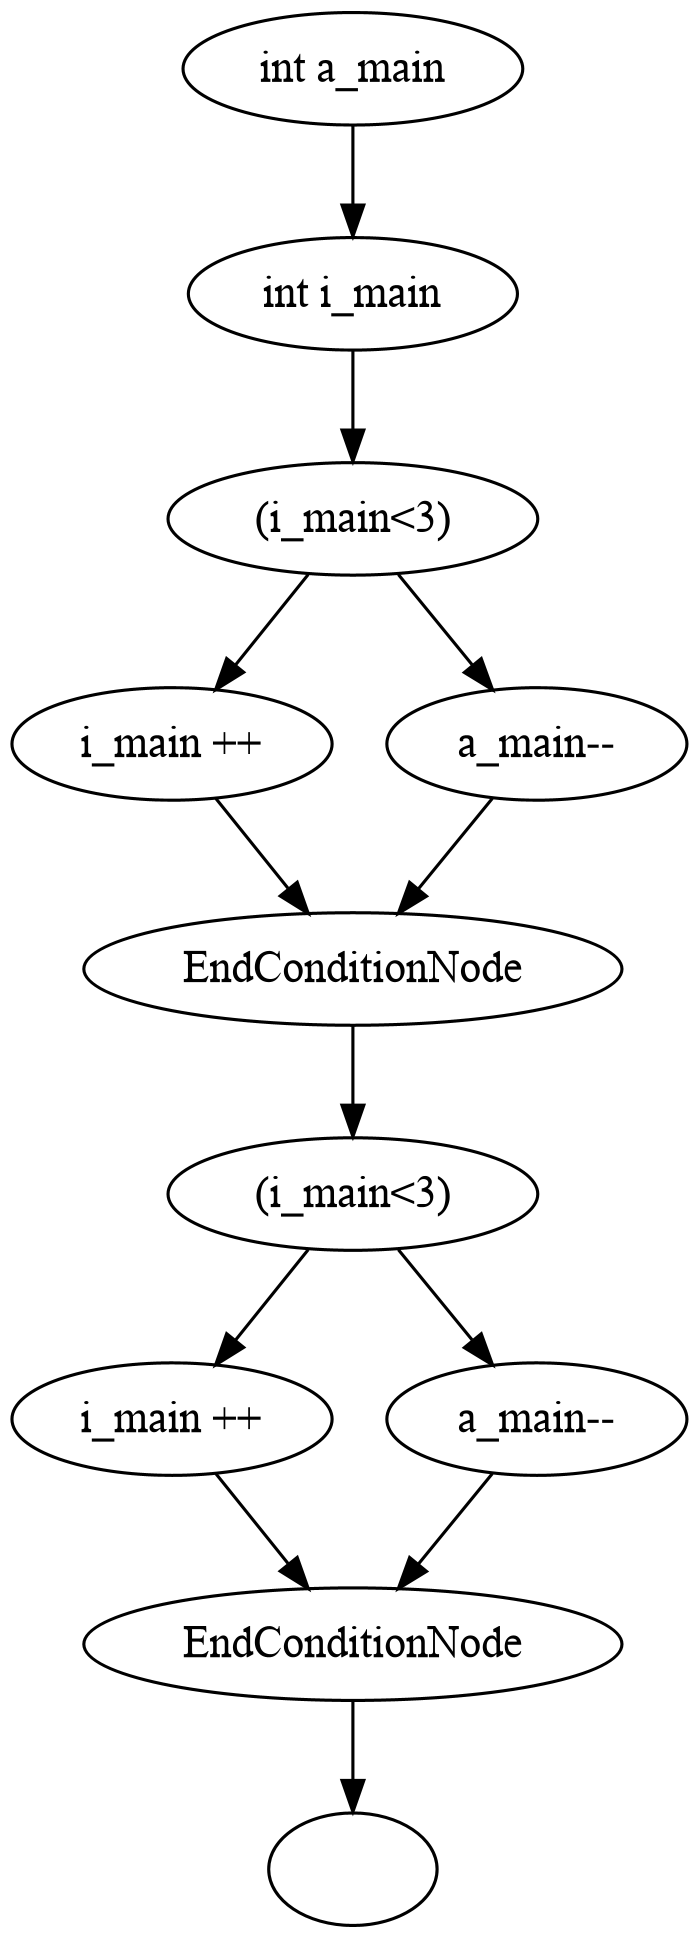
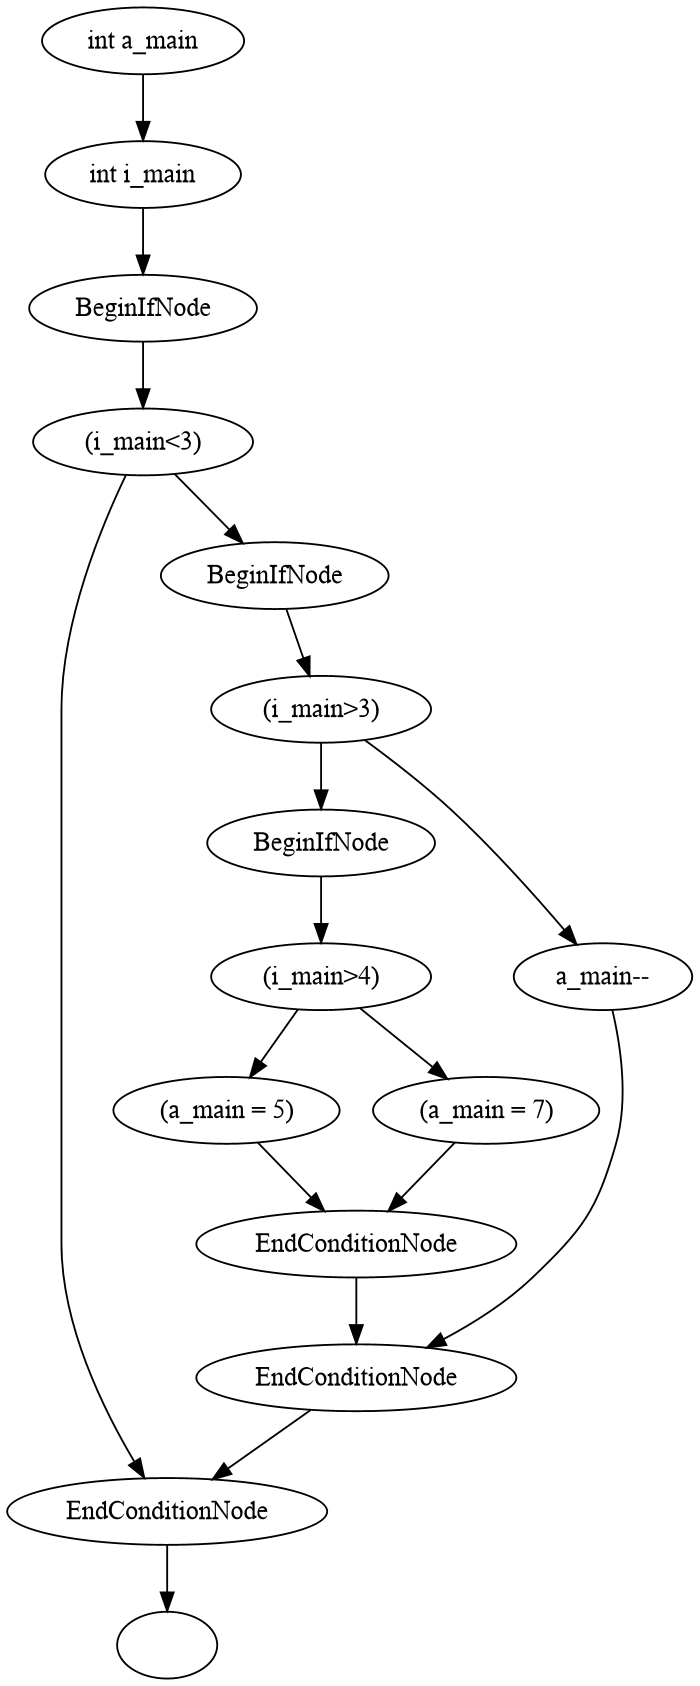
refactor code, use API of DecisionNode

diff --git a/src/main/java/com/vtse/graph/GraphGenerator.java b/src/main/java/com/vtse/graph/GraphGenerator.java
@@ -37,15 +37,25 @@ public class GraphGenerator {
         String label = "";
         if(node instanceof EndConditionNode){
             label = "EndConditionNode";
+        } else if (node instanceof BeginIfNode){
+            label = "BeginIfNode";
         } else {
             label = node.toString();
         }
         this.write("\"" + node.toString() + node.hashCode() + "\"" + " [ label=\"" + label + "\"]");
+        this.write(";\n");
     }
     public void writeDirected(String a, String b) throws IOException {
         this.write("\"" + a + "\"" + " -> " + "\"" + b + "\"" );
+        this.write(";\n");
     }
     public void writeTwoNode(CFGNode a, CFGNode b) throws IOException{
+        if(a instanceof EmptyNode){
+            return;
+        }
+        while(b instanceof EmptyNode){
+            b = b.getNext();
+        }
         this.writeDirected(a.toString() + a.hashCode(), b.toString() + b.hashCode());
         this.writeLabel(a);
         this.writeLabel(b);
@@ -61,45 +71,38 @@ public class GraphGenerator {
         if(this.debug){
             System.out.println("\"" + start.toString() + "\"" + " -> " + "\"" + nextNode.toString() + "\"");
         }
-        this.write(";\n");
         return nextNode;
     }
 
 
-    public CFGNode printIfNode(CFGNode beginIfNode, CFGNode end) throws IOException {
+    public CFGNode printIfNode(CFGNode beginIfNode) throws IOException {
         CFGNode decisionNode = ((BeginIfNode)beginIfNode).getDecisionNode();
-        this.countIf++;
+        this.writeTwoNode(beginIfNode, decisionNode);
 
         CFGNode thenNode = ((DecisionNode)decisionNode).getThenNode();
         CFGNode elseNode = ((DecisionNode)decisionNode).getElseNode();
-        Boolean elseNodeEmpty = false;
-        if(elseNode instanceof EmptyNode){
-            elseNodeEmpty = true;
-        }
-        thenNode = this.fixNode(thenNode);
-        elseNode = this.fixNode(elseNode);
+        CFGNode endConditionNode = ((DecisionNode)decisionNode).getEndNode();
+
         if(thenNode != null){
             this.writeTwoNode(decisionNode, thenNode);
-           this.write(";\n");
             if(this.debug){
                 System.out.println("\"" + decisionNode.toString() + "\"" + "->" + "\"" + thenNode.toString() + "\"");
             }
         }
-        if( !elseNodeEmpty && elseNode != null){
+        if( elseNode != null){
             this.writeTwoNode(decisionNode, elseNode);
-           this.write(";\n");
             if(this.debug){
                 System.out.println("\"" + decisionNode.toString() + "\"" + "->" + "\"" + elseNode.toString() + "\"");
             }
         }
 
-        int endConditionNodeIndex = this.countIf;
-        CFGNode thenNodeEnd = this.print(thenNode, end);
-        CFGNode elseNodeEnd = this.print(elseNode, end);
-        EndConditionNode endConditionNode =(EndConditionNode)thenNodeEnd.getNext();
-        endConditionNode.setStatement("EndConditionNode_" + endConditionNodeIndex);
-        this.printEndConditionNode(decisionNode, thenNodeEnd, elseNodeEnd, endConditionNode, elseNodeEmpty);
-        return this.print(endConditionNode, end);
+        this.print(thenNode, endConditionNode);
+        this.print(elseNode, endConditionNode);
+        CFGNode thenNodeEnd = ((DecisionNode)decisionNode).getEndOfThen();
+        CFGNode elseNodeEnd = ((DecisionNode)decisionNode).getEndOfElse();
+        this.writeTwoNode(thenNodeEnd, endConditionNode);
+        this.writeTwoNode(elseNodeEnd, endConditionNode);
+        return endConditionNode;
     }
 
     public CFGNode printForNode(CFGNode start) throws IOException{
@@ -133,14 +136,11 @@ public class GraphGenerator {
     public void printEndConditionNode(CFGNode start, CFGNode thenNodeEnd, CFGNode elseNodeEnd, EndConditionNode endConditionNode, Boolean elseNodeEmpty) throws IOException{
         if(thenNodeEnd != null){
             this.writeTwoNode(thenNodeEnd, endConditionNode);
-            this.write(";\n");
         }
         if(elseNodeEmpty){
             this.writeTwoNode(start, endConditionNode);
-            this.write(";\n");
         } else if(elseNodeEnd != null){
             this.writeTwoNode(elseNodeEnd, endConditionNode);
-            this.write(";\n");
         }
     }
     public CFGNode fixNode(CFGNode node){
@@ -161,33 +161,18 @@ public class GraphGenerator {
         if(nextNode == end){
             return start;
         }
-        if(nextNode instanceof EndConditionNode){
-            return start;
-        } else if(nextNode != null){
-            if(nextNode instanceof BeginIfNode){
-                CFGNode decisionNode = ((BeginIfNode) nextNode).getDecisionNode();
-                this.printPlainNode(start, decisionNode);
-                return this.printIfNode(nextNode, end);
-            } else if(nextNode instanceof BeginForNode){
-                CFGNode decisionNode = ((BeginForNode) nextNode).getDecisionNode();
-                this.printPlainNode(start, decisionNode);
-                return this.printForNode(nextNode);
-            } else if(start instanceof  PlainNode){
-                nextNode = this.printPlainNode(start, nextNode);
-                if(this.debug){
-                    System.out.println(nextNode.getClass());
-                }
-                return this.print(nextNode, end);
-
-            }
-            else {
-                nextNode = this.printPlainNode(start, nextNode);
-                if(this.debug){
-                    System.out.println(nextNode.getClass());
-                }
-                return this.print(nextNode, end);
-            }
+        if(start instanceof BeginIfNode){
+            nextNode= this.printIfNode(start);
+            return this.print(nextNode, end);
+        } else if(start instanceof BeginForNode){
+            nextNode = this.printForNode(start);
+            return this.print(nextNode, end);
+        }  else if(start instanceof PlainNode){
+            nextNode = this.printPlainNode(start, nextNode);
+            return this.print(nextNode, end);
+        } else {
+            nextNode = this.printPlainNode(start, nextNode);
+            return this.print(nextNode, end);
         }
-        return this.print(nextNode, end);
     }
 }

diff --git a/src/main/resources/benchmark/example/graph.c b/src/main/resources/benchmark/example/graph.c
@@ -2,13 +2,15 @@ int main(){
      int a;
      int i;
      if(i<3){
-        i++;
      } else {
-        a--;
-     }
-     if(i<3){
-        i++;
-     } else {
-        a--;
+        if(i>3){
+            if(i>4){
+                a = 5;
+            } else {
+                a = 7;
+            }
+        } else {
+            a--;
+        }
      }
  }
